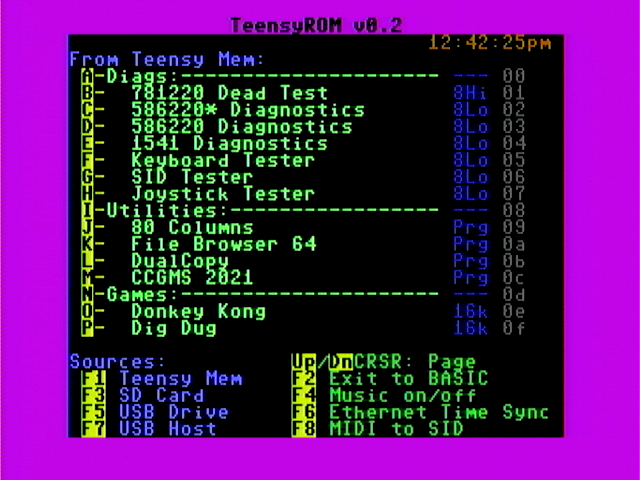
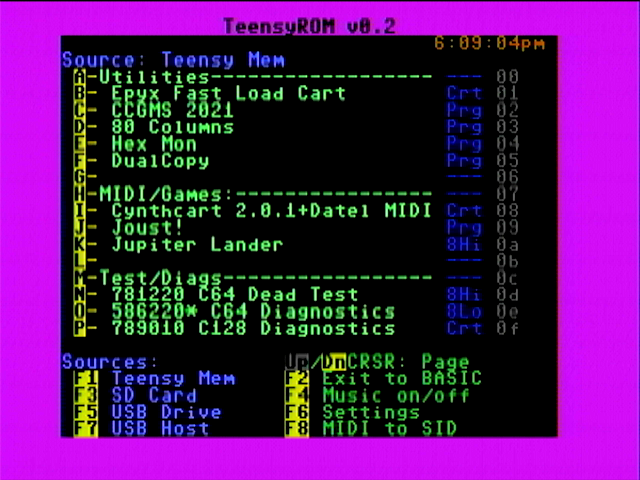
Readme & pic updates

diff --git a/README.md b/README.md
@@ -1,5 +1,5 @@
 # TeensyROM
-**A ROM emulator, super fast loader cartridge, MIDI and Ethernet interface for the Commodore 64, based on the Teensy 4.1**
+**A ROM emulator, super fast loader cartridge, MIDI and Ethernet interface/emulator for the Commodore 64, based on the Teensy 4.1**
 
 *Design by Travis Smith/Sensorium ([e-mail](mailto:travis@sensoriumembedded.com))* 
 
@@ -7,43 +7,79 @@ Although there are now many emulators/loaders out there, I really wanted to desi
 
 I'm planning to continue to publish all PCB design files and source code here for anyone else who is interested.   If you have any input on the project, features you'd like to see, or are interested in testing it out, please send me a note.    I'm also interested in any feedback/contributions from other engineers/developers out there.
 
-## Features currently implemented
+## Features available
 * Immediate Emulation or Load from:
   * USB thumb Drive
   * SD card
-  * Teensy Internal Flash
-  * Transfer directly from PC (C# Windows app included)
+  * Teensy Internal Flash Memory
+  * Transfer directly from PC
+    * C# Windows app included
 * Files Supported:
-  * .crt files (8khi/8klo/16k/C128):
-    * Emulates all "Normal" type ROM carts
+  * .PRG files: Super fast-loads any PRG into RAM and executes
+  * .CRT files: Emulates 8khi, 8klo, 16k, C128
+    * Emulates several special HW types, and all "normal" ROM carts 
     * Includes VIC direct reads used on some HiROM carts
-  * .prg files: Super fast-loads any PRG into RAM and executes
-* Sets C64 system time from internet (via Ethernet)
-* Adjustable startup parameters stored in Teensy internal EEPROM
-* MIDI in/out via USB Host connection
-  * Sequential, Datel/Siel MIDI cartridge full emulation 
-  * Passport/Sentech/Namesoft partial emulation
-  * Use with Cynthcart, SIDWizard, etc.
-  * Supports USB Hub for multiple instruments+thumb drive access
-  * Built-in MIDI2SID app: 
-    * Polyphonic player with waveform/envelope controls
-
+* Startup parameters stored in Teensy internal EEPROM
+* Special HW Emulation
+  * **MIDI in/out via USB Host connection**
+    * **Sequential/Datel/Siel** MIDI cartridge full emulation 
+    * **Passport/Sentech/Namesoft** partial emulation
+    * Use with **Cynthcart, SIDWizard,** etc.
+    * Play your SID Synthesizer with any USB MIDI device!
+    * Supports USB Hub for multiple instruments+thumb drive access
+    * Built-in MIDI2SID app: 
+      * Polyphonic player with waveform/envelope controls
+  * **Ethernet communication via ethernet connection**
+    * **Swiftlink** cartridge + 38.4k modem emulation
+    * Use with **CCGMS, StrikeTerm2014, DesTerm128,** etc
+    * Connect to your favorite C64/128/Telnet BBS!
+    * Sets C64 system time from internet
+    * General AT commands:
+       | Command | Description |
+       |--|--|
+       AT | Ping  
+       ATC | Connect Ethernet using saved parameters and display connection info
+       ATDT<HostName>:<Port> | Connect to host and enter On-line mode
+       AT+S | Display stored default Ethernet settings
+    * These commands set the default values saved in the Teensy, use ATC or power cycle to apply settings.
+       | Command | Description |
+       |--|--|
+       AT+DEFAULTS | Defaults Settings for all
+       AT+RNDMAC | MAC address to random value
+       AT+MAC=\<XX:XX:XX:XX:XX:XX>  | MAC address to provided value
+       AT+DHCP=\<0:1> | DHCP On/Off
+       DHCP mode only:
+       AT+DHCPTIME=\<D> |  DHCP Timeout in mS
+       AT+DHCPRESP=\<D> |  DHCP Response Timeout in mS
+       Static mode only:
+       AT+MYIP=<D.D.D.D> | Local IP address
+       AT+DNSIP=<D.D.D.D> | DNS IP address
+       AT+GTWYIP=<D.D.D.D> | Gateway IP address
+       AT+MASKIP=<D.D.D.D> | Subnet Mask IP address
+    * When in connected/on-line mode:
+       | Command | Description |
+       |--|--|
+       +++ | Disconnect from host and enter command mode
+  
 ## Hardware/PCB Design
-**v0.2 PCB is completed, built and tested!**
-The primary change is the addition of Ethernet and USB host connectors to eliminate the need for dongles.  A full list of changes is available in the [PCB Readme](https://github.com/SensoriumEmbedded/TeensyROM/blob/main/PCB/PCB_Readme.md) as well as a link to purchase bare PCBs.    Software is fully compatible for both PCB versions, just have to set one #define at build time to differentiate.
+**v0.2 PCB is completed and fully validated/tested**
+The primary change from v0.1 was the addition of Ethernet and USB host connectors to eliminate the need for dongles.  A full list of changes is available in the [PCB Readme](https://github.com/SensoriumEmbedded/TeensyROM/blob/main/PCB/PCB_Readme.md) as well as a link to purchase bare PCBs.    Software is fully compatible for both PCB versions, just have to set one #define at build time to differentiate.
 ![TeensyROM pic1](https://github.com/SensoriumEmbedded/TeensyROM/raw/main/pics-info/v0.2/v0.2%20ang.jpg)
 Component selection was done using parts large enough (SOIC and 0805s at the smallest) that any soldering enthusiast should be able to assemble themselves.   Since high volume production isn't necessarily the vision for this device, 2 sided SMT was used to reduce the PCB size while still accommodating larger IC packages.
-   
+
+**A note about overclocking**
+The Teensy 4.1 is slightly "overclocked" to 816MHz from FW in this design. Per the app, external cooling is not required for this speed.  However, in abundance of caution, a heatsink is specified in the BOM for this project.  In addition, the temperature can be read on the setup screen of the main TeensyROM app. The max spec is 95C, and there is a panic shutdown at 90C.  In my experience, even on a warm day running for hours with no heatsink, the temp doesn't excede 75C.
+
 ## Compatibility
-TeensyROM been tested on about a dozen NTSC C64, C64C, and C128 machines to this point.  Waiting for VIC-II Kawari availability to implement PAL timing  :) 
+TeensyROM been tested on a couple dozen NTSC C64, C64C, and C128 machines to this point.  Waiting for VIC-II Kawari availability to implement PAL timing  :) 
 
 ## Future/potential SW development/features:
+* Host USB Printers
 * REU support using PSRAM
-* Special cartridge HW emulation
+* Other Special HW cartridge emulation
 * .d64, .tap file support
   * drive emulation via custom Kernal
-* Other HW Support: PAL, 50Hz, C128
-* Modem emulation via Ethernet connection
+* PAL Support
 * Method to save from USB/PC to SD or USB Drive
 
 ## Demo Videos:
@@ -51,9 +87,10 @@ TeensyROM been tested on about a dozen NTSC C64, C64C, and C128 machines to this
 * [MIDI2SID Demo ](https://www.youtube.com/watch?v=3BsX_jxIYKY) using MIDI keyboard => TeensyROM => C64/SID
 ## Pictures/screen captures:
 | ![TeensyROM pic1](https://github.com/SensoriumEmbedded/TeensyROM/raw/main/pics-info/v0.2/v0.2%20top.jpg) | ![TeensyROM pic1](https://github.com/SensoriumEmbedded/TeensyROM/raw/main/pics-info/v0.2/20230307_164007.jpg) | 
-|--|--|
-![TeensyROM pic1](https://github.com/SensoriumEmbedded/TeensyROM/raw/main/pics-info/v0.2/20230307_163653.jpg) |![TeensyROM pic1](https://github.com/SensoriumEmbedded/TeensyROM/raw/main/pics-info/v0.2/20230308_121851%20edit.jpg)  |
+|:--:|:--:|
+|![TeensyROM pic1](https://github.com/SensoriumEmbedded/TeensyROM/raw/main/pics-info/v0.2/20230307_163653.jpg) |![TeensyROM pic1](https://github.com/SensoriumEmbedded/TeensyROM/raw/main/pics-info/v0.2/20230308_121851%20edit.jpg)  |
 |![TeensyROM pic1](https://github.com/SensoriumEmbedded/TeensyROM/raw/main/pics-info/Screen%20captures/Main%20Menu.png)|![TeensyROM pic1](https://github.com/SensoriumEmbedded/TeensyROM/raw/main/pics-info/Screen%20captures/MIDI%20to%20SID.png)|
-![TeensyROM pic1](https://github.com/SensoriumEmbedded/TeensyROM/raw/main/pics-info/Screen%20captures/WinPC%20x-fer%20app.png)|
+|![TeensyROM pic1](https://github.com/SensoriumEmbedded/TeensyROM/raw/main/pics-info/Screen%20captures/Settings%20Menu.png)|![TeensyROM pic1](https://github.com/SensoriumEmbedded/TeensyROM/raw/main/pics-info/Screen%20captures/WinPC%20x-fer%20app.png)|
+
 See [pics-info](https://github.com/SensoriumEmbedded/TeensyROM/tree/main/pics-info) folder for more, including some oscilloscope shots showing VIC cycle timing.
 
